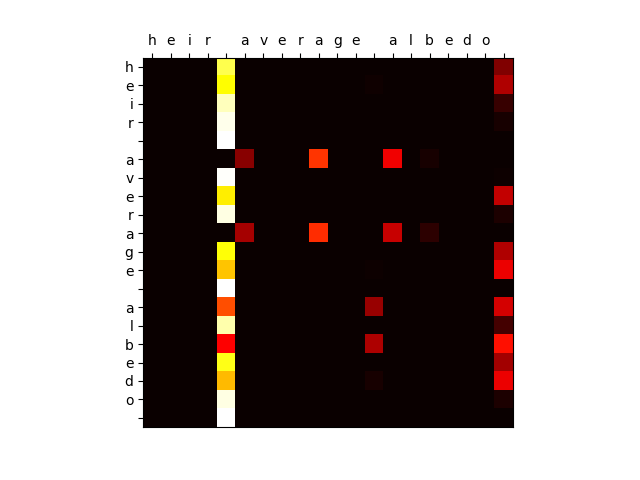
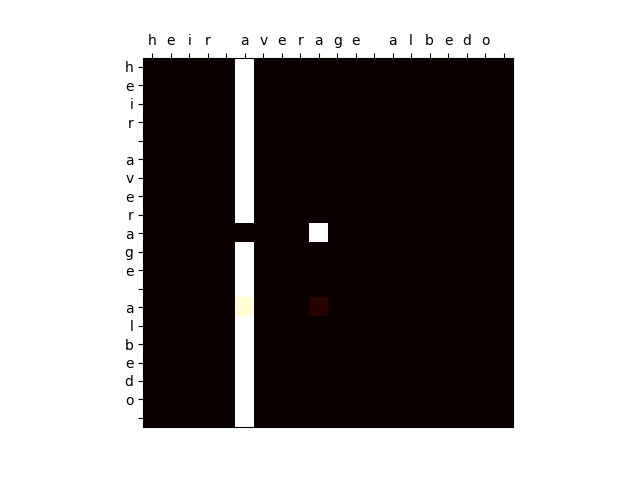
able to get to 60+ !!!

diff --git a/Project 2/p2-distrib/transformer.py b/Project 2/p2-distrib/transformer.py
@@ -49,6 +49,8 @@ class Transformer(nn.Module):
         self.linear = nn.Linear(d_model, num_classes)
         self.softmax = nn.LogSoftmax(dim=2)
         
+        nn.init.xavier_uniform_(self.linear.weight)
+        
     def get_atten_maps(self):
         maps_list = []
         for layer in self.trans_layers:
@@ -216,6 +218,8 @@ class my_multi_head_atten(nn.Module):
         self.linear = nn.Linear(num_heads * d_k, d_model)
         self.atten = None
         
+        nn.init.xavier_uniform_(self.linear.weight)
+        
     def get_atten_maps(self):
         maps_list = []
         for h in self.heads:
@@ -234,6 +238,10 @@ class my_attention_head(nn.Module):
         self.k = nn.Linear(d_model, d_k)
         self.v = nn.Linear(d_model, d_k)
         self.atten_map = None
+        
+        nn.init.xavier_uniform_(self.q.weight)
+        nn.init.xavier_uniform_(self.k.weight)
+        nn.init.xavier_uniform_(self.v.weight)
     
     def get_atten_map(self):
         return self.atten_map
@@ -337,44 +345,66 @@ def plot_maps(attn_maps, chars, plot_first=True):
 # This is a skeleton for train_classifier: you can implement this however you want
 def train_classifier(args, train, dev):
     # set up dataloader for batching
-    batch_size = 64
+    batch_size = 1
     train_dataloader = set_up_dataloader(train, batch_size)
     # create model
-    model = Transformer(num_pos=20, d_model=512, num_heads=1, d_ff=2048, num_classes=3, num_layers=1, dropout=0.1)
+    model = Transformer(num_pos=20, d_model=512, num_heads=2, d_ff=2048, num_classes=3, num_layers=1, dropout=0.1)
     model.zero_grad()
     model.train()
     optimizer = optim.Adam(model.parameters(), lr=1e-4)
     
     # train model
-    num_epochs = 3
+    num_epochs = 5
+    iter_list = []
+    loss_list = []
+    # keep track of total iterations
+    iteration = 0
     print ('[starting training]')
     for epoch in range(0, num_epochs):
         loss_this_epoch = 0.0
         random.seed(epoch)
         # You can use batching if you'd like
-        loss_func = nn.BCEWithLogitsLoss()
+        #loss_func = nn.BCEWithLogitsLoss()
+        loss_func = nn.NLLLoss()
         for x, y, c in tqdm(train_dataloader):
+            # inc. iteration
+            iteration += 1
             # restructure y to be [batch_size, 20, 3]
-            y = one_hot_y(y, batch_size)
+            #y = func.one_hot(y)
             
             # forward pass
+            model.zero_grad()
             p, maps = model.forward(x)
             #print ('p.shape: ', p.shape)
             #plot_maps(maps, c)
+            #p = torch.argmax(p, dim=2)
 
             # fix pred and y tensors for NLLLoss
-            p = torch.reshape(p, (batch_size * 20, 3))
-            y = torch.reshape(y, (batch_size * 20, 3))
+            p = torch.reshape(p, [batch_size * 20, 3])
+            y = torch.reshape(y, [batch_size * 20])
             #print('y.shape: ', y.shape)
             #print('p.shape: ', p.shape)
+            
+            #print('y: ', y)
+            #print('p: ', p)
+            #loss = func.cross_entropy(p.view(-1, p.size(-1)))
             loss = loss_func(p, y)
+            loss_list.append(loss.item())
+            iter_list.append(iteration)
             
             # backward pass
-            model.zero_grad()
             loss.backward()
             optimizer.step()
             loss_this_epoch += loss.item()
+        print ('total loss over epoch %i: %f' % (epoch + 1, loss_this_epoch))
     model.eval()
+    
+    plt.plot(iter_list, loss_list)
+    plt.title('loss over training iterations')
+    plt.ylabel('loss')
+    plt.xlabel('training iterations')
+    plt.show()
+        
     return model
 
 
